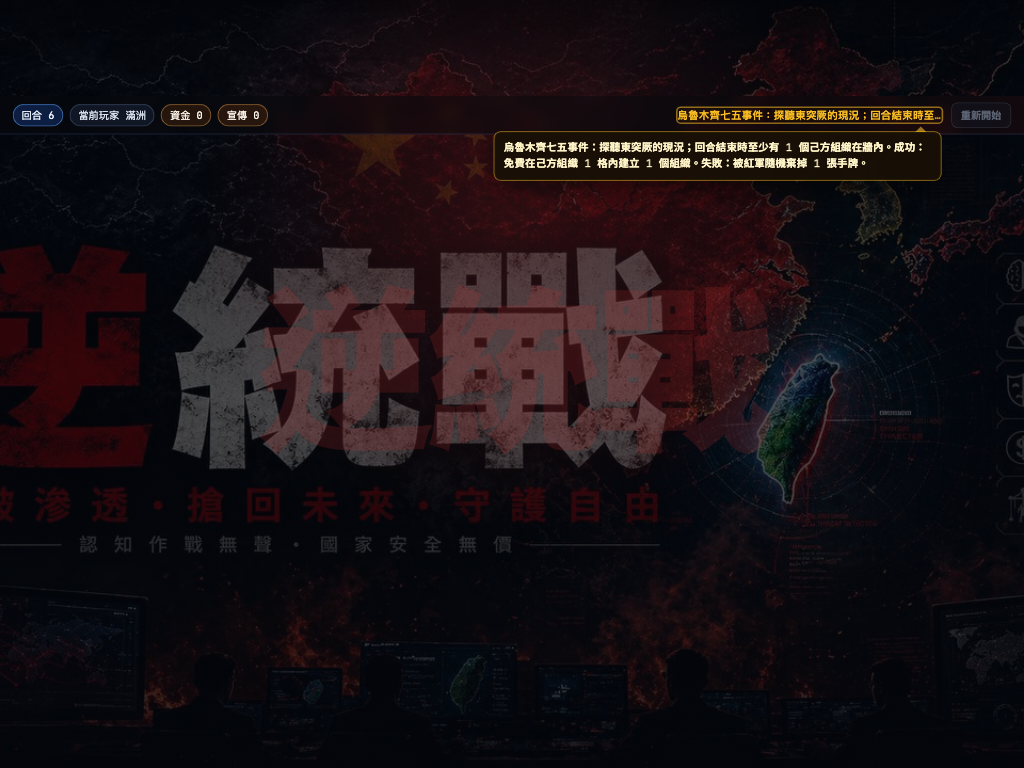
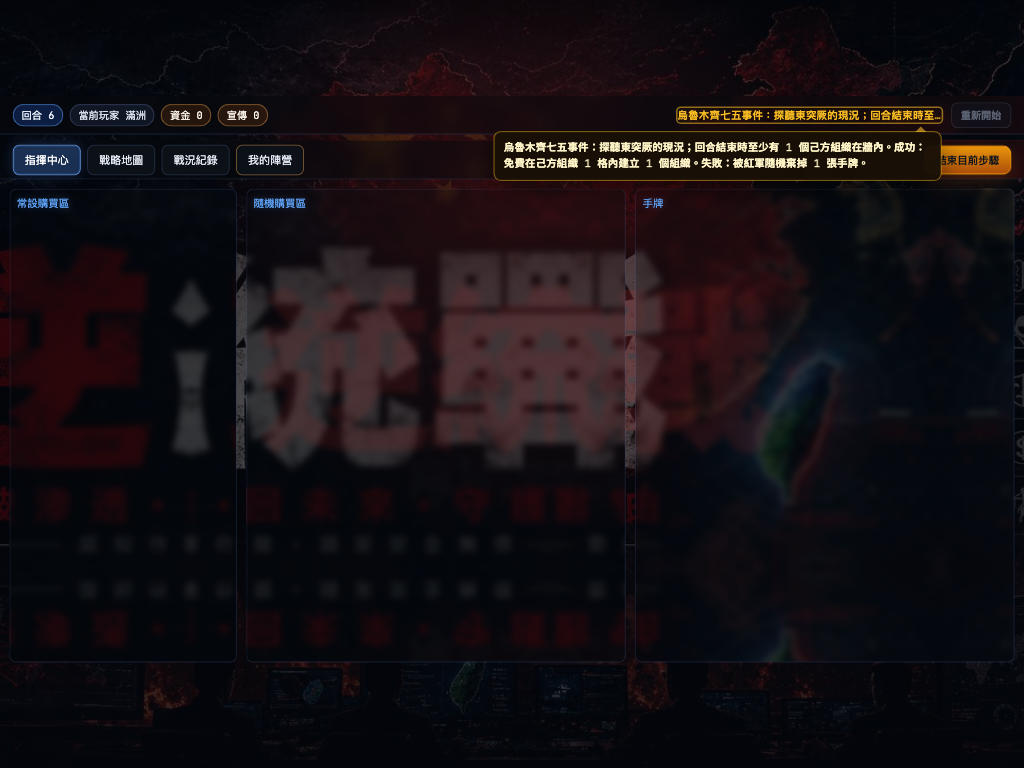
fix: keep phase tooltip above game tabs

diff --git a/static/index.html b/static/index.html
@@ -4,7 +4,7 @@
   <meta charset="UTF-8" />
   <title>REDLINE // STRATEGIC COMMAND</title>
   <link rel="icon" href="data:," />
-  <link rel="stylesheet" href="/static/style.css?v=red-army-reaction-modals-20260824" />
+  <link rel="stylesheet" href="/static/style.css?v=phase-guidance-tooltip-layer-20260902" />
 </head>
 <body>
 <div id="stageViewport">

diff --git a/static/style.css b/static/style.css
@@ -552,7 +552,7 @@ body {
   font-family: 'JetBrains Mono', monospace;
   font-size: 0.8rem;
   color: #dbe7f3;
-  z-index: 2;
+  z-index: 3;
   backdrop-filter: blur(8px);
   display: none;
   align-items: center;

diff --git a/scripts/validate/validate_phase_guidance_hover_full_text.py b/scripts/validate/validate_phase_guidance_hover_full_text.py
@@ -44,6 +44,7 @@ def main() -> None:
                   document.getElementById('lobby').style.display = 'none';
                   const hud = document.getElementById('hud');
                   hud.style.display = 'flex';
+                  document.getElementById('gameShell').style.display = 'block';
                   document.getElementById('hudMainRow').innerHTML = '<span class="hud-chip hud-chip-primary">回合 6</span><span class="hud-chip">當前玩家 滿洲</span><span class="hud-chip hud-chip-resource">資金 0</span><span class="hud-chip hud-chip-resource">宣傳 0</span>';
                   setPhaseActionMeta(text);
                 }""",
@@ -67,11 +68,50 @@ def main() -> None:
                 }"""
             )
             restart_rect = restart.evaluate("el => {const r=el.getBoundingClientRect(); return {left:r.left,top:r.top,right:r.right,bottom:r.bottom}}")
+            tab_layer = page.evaluate(
+                """() => {
+                  const rect = element => {
+                    const r = element.getBoundingClientRect();
+                    return {left:r.left,top:r.top,right:r.right,bottom:r.bottom};
+                  };
+                  const hud = document.getElementById('hud');
+                  const shell = document.getElementById('gameShell');
+                  const tabs = document.getElementById('gameTabs');
+                  const tooltip = document.getElementById('phaseActionMetaTooltip');
+                  const tabRect = rect(tabs);
+                  const tooltipRect = rect(tooltip);
+                  const probe = {
+                    x: (Math.max(tabRect.left, tooltipRect.left) + Math.min(tabRect.right, tooltipRect.right)) / 2,
+                    y: (Math.max(tabRect.top, tooltipRect.top) + Math.min(tabRect.bottom, tooltipRect.bottom)) / 2,
+                  };
+                  tooltip.style.pointerEvents = 'auto';
+                  const topElement = document.elementFromPoint(probe.x, probe.y);
+                  tooltip.style.pointerEvents = '';
+                  return {
+                    hudZ: Number(getComputedStyle(hud).zIndex),
+                    shellZ: Number(getComputedStyle(shell).zIndex),
+                    tabs: tabRect,
+                    probe: {
+                      ...probe,
+                      topId: topElement?.id || '',
+                      topClass: topElement?.className || '',
+                      tooltipOnTop: topElement === tooltip || tooltip.contains(topElement),
+                    },
+                  };
+                }"""
+            )
             viewport_rect = {"left": 0, "top": 0, "right": width, "bottom": height}
             visible_and_complete = tooltip_state["display"] == "block" and tooltip_state["text"] == LONG_TEXT and tooltip_state["ariaHidden"] == "false"
             record(f"hover_shows_complete_text_{width}x{height}", visible_and_complete, tooltip_state)
             tooltip_inside = tooltip_state["rect"]["left"] >= viewport_rect["left"] and tooltip_state["rect"]["right"] <= viewport_rect["right"] and tooltip_state["rect"]["top"] >= viewport_rect["top"] and tooltip_state["rect"]["bottom"] <= viewport_rect["bottom"]
             record(f"tooltip_is_inside_view_and_avoids_restart_{width}x{height}", tooltip_inside and not intersects(tooltip_state["rect"], restart_rect), {"tooltip": tooltip_state["rect"], "restart": restart_rect, "viewport": viewport_rect})
+            record(
+                f"tooltip_paints_above_tab_and_action_row_{width}x{height}",
+                intersects(tooltip_state["rect"], tab_layer["tabs"])
+                and tab_layer["hudZ"] > tab_layer["shellZ"]
+                and tab_layer["probe"]["tooltipOnTop"],
+                {"tooltip": tooltip_state["rect"], **tab_layer},
+            )
 
             meta.focus()
             page.wait_for_timeout(80)

diff --git a/docs/records/ui-layout/phase-guidance-hover-full-text/PHASE_GUIDANCE_HOVER_FULL_TEXT_VALIDATION.md b/docs/records/ui-layout/phase-guidance-hover-full-text/PHASE_GUIDANCE_HOVER_FULL_TEXT_VALIDATION.md
@@ -1,16 +1,18 @@
 # 金色階段提示完整 hover 說明驗證
 
-Summary: **12/12 passed**
+Summary: **14/14 passed**
 
 - PASS: `long_text_is_visually_truncated_1280x720`
 - PASS: `overflow_state_is_enabled_1280x720`
 - PASS: `hover_shows_complete_text_1280x720`
 - PASS: `tooltip_is_inside_view_and_avoids_restart_1280x720`
+- PASS: `tooltip_paints_above_tab_and_action_row_1280x720`
 - PASS: `keyboard_focus_also_shows_tooltip_1280x720`
 - PASS: `long_text_is_visually_truncated_1024x768`
 - PASS: `overflow_state_is_enabled_1024x768`
 - PASS: `hover_shows_complete_text_1024x768`
 - PASS: `tooltip_is_inside_view_and_avoids_restart_1024x768`
+- PASS: `tooltip_paints_above_tab_and_action_row_1024x768`
 - PASS: `keyboard_focus_also_shows_tooltip_1024x768`
 - PASS: `short_text_does_not_open_unneeded_tooltip`
 - PASS: `browser_console_has_no_errors`
